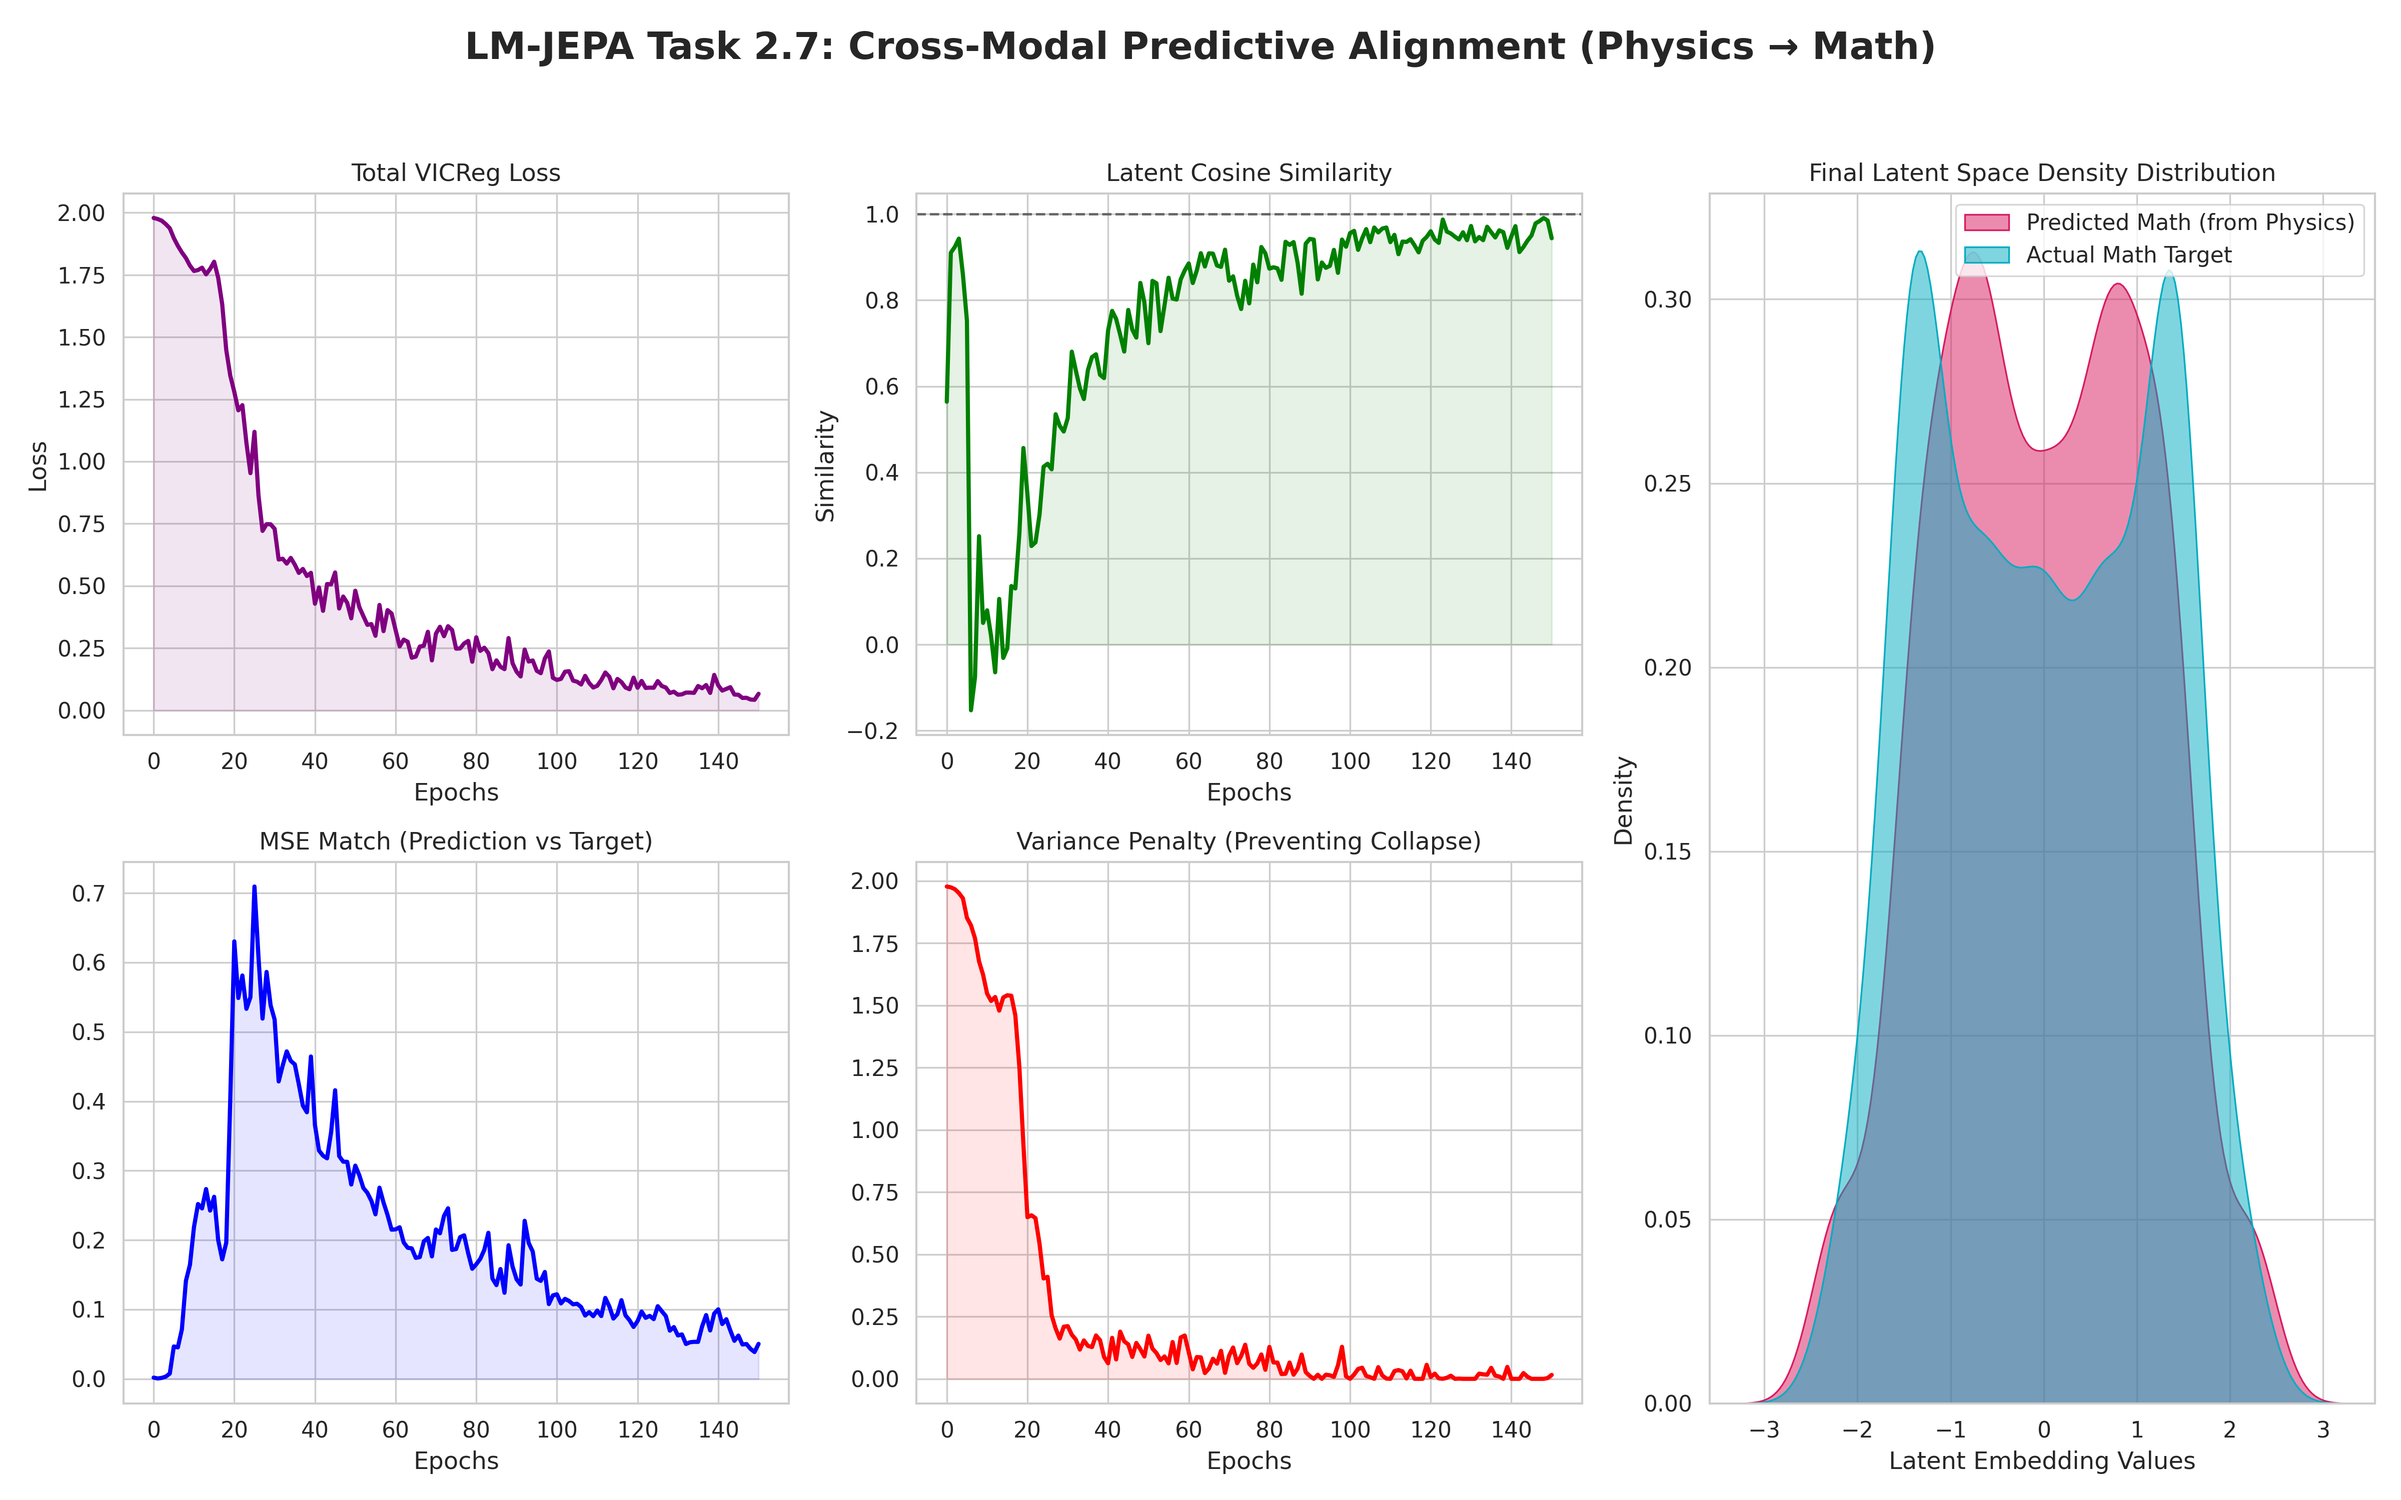
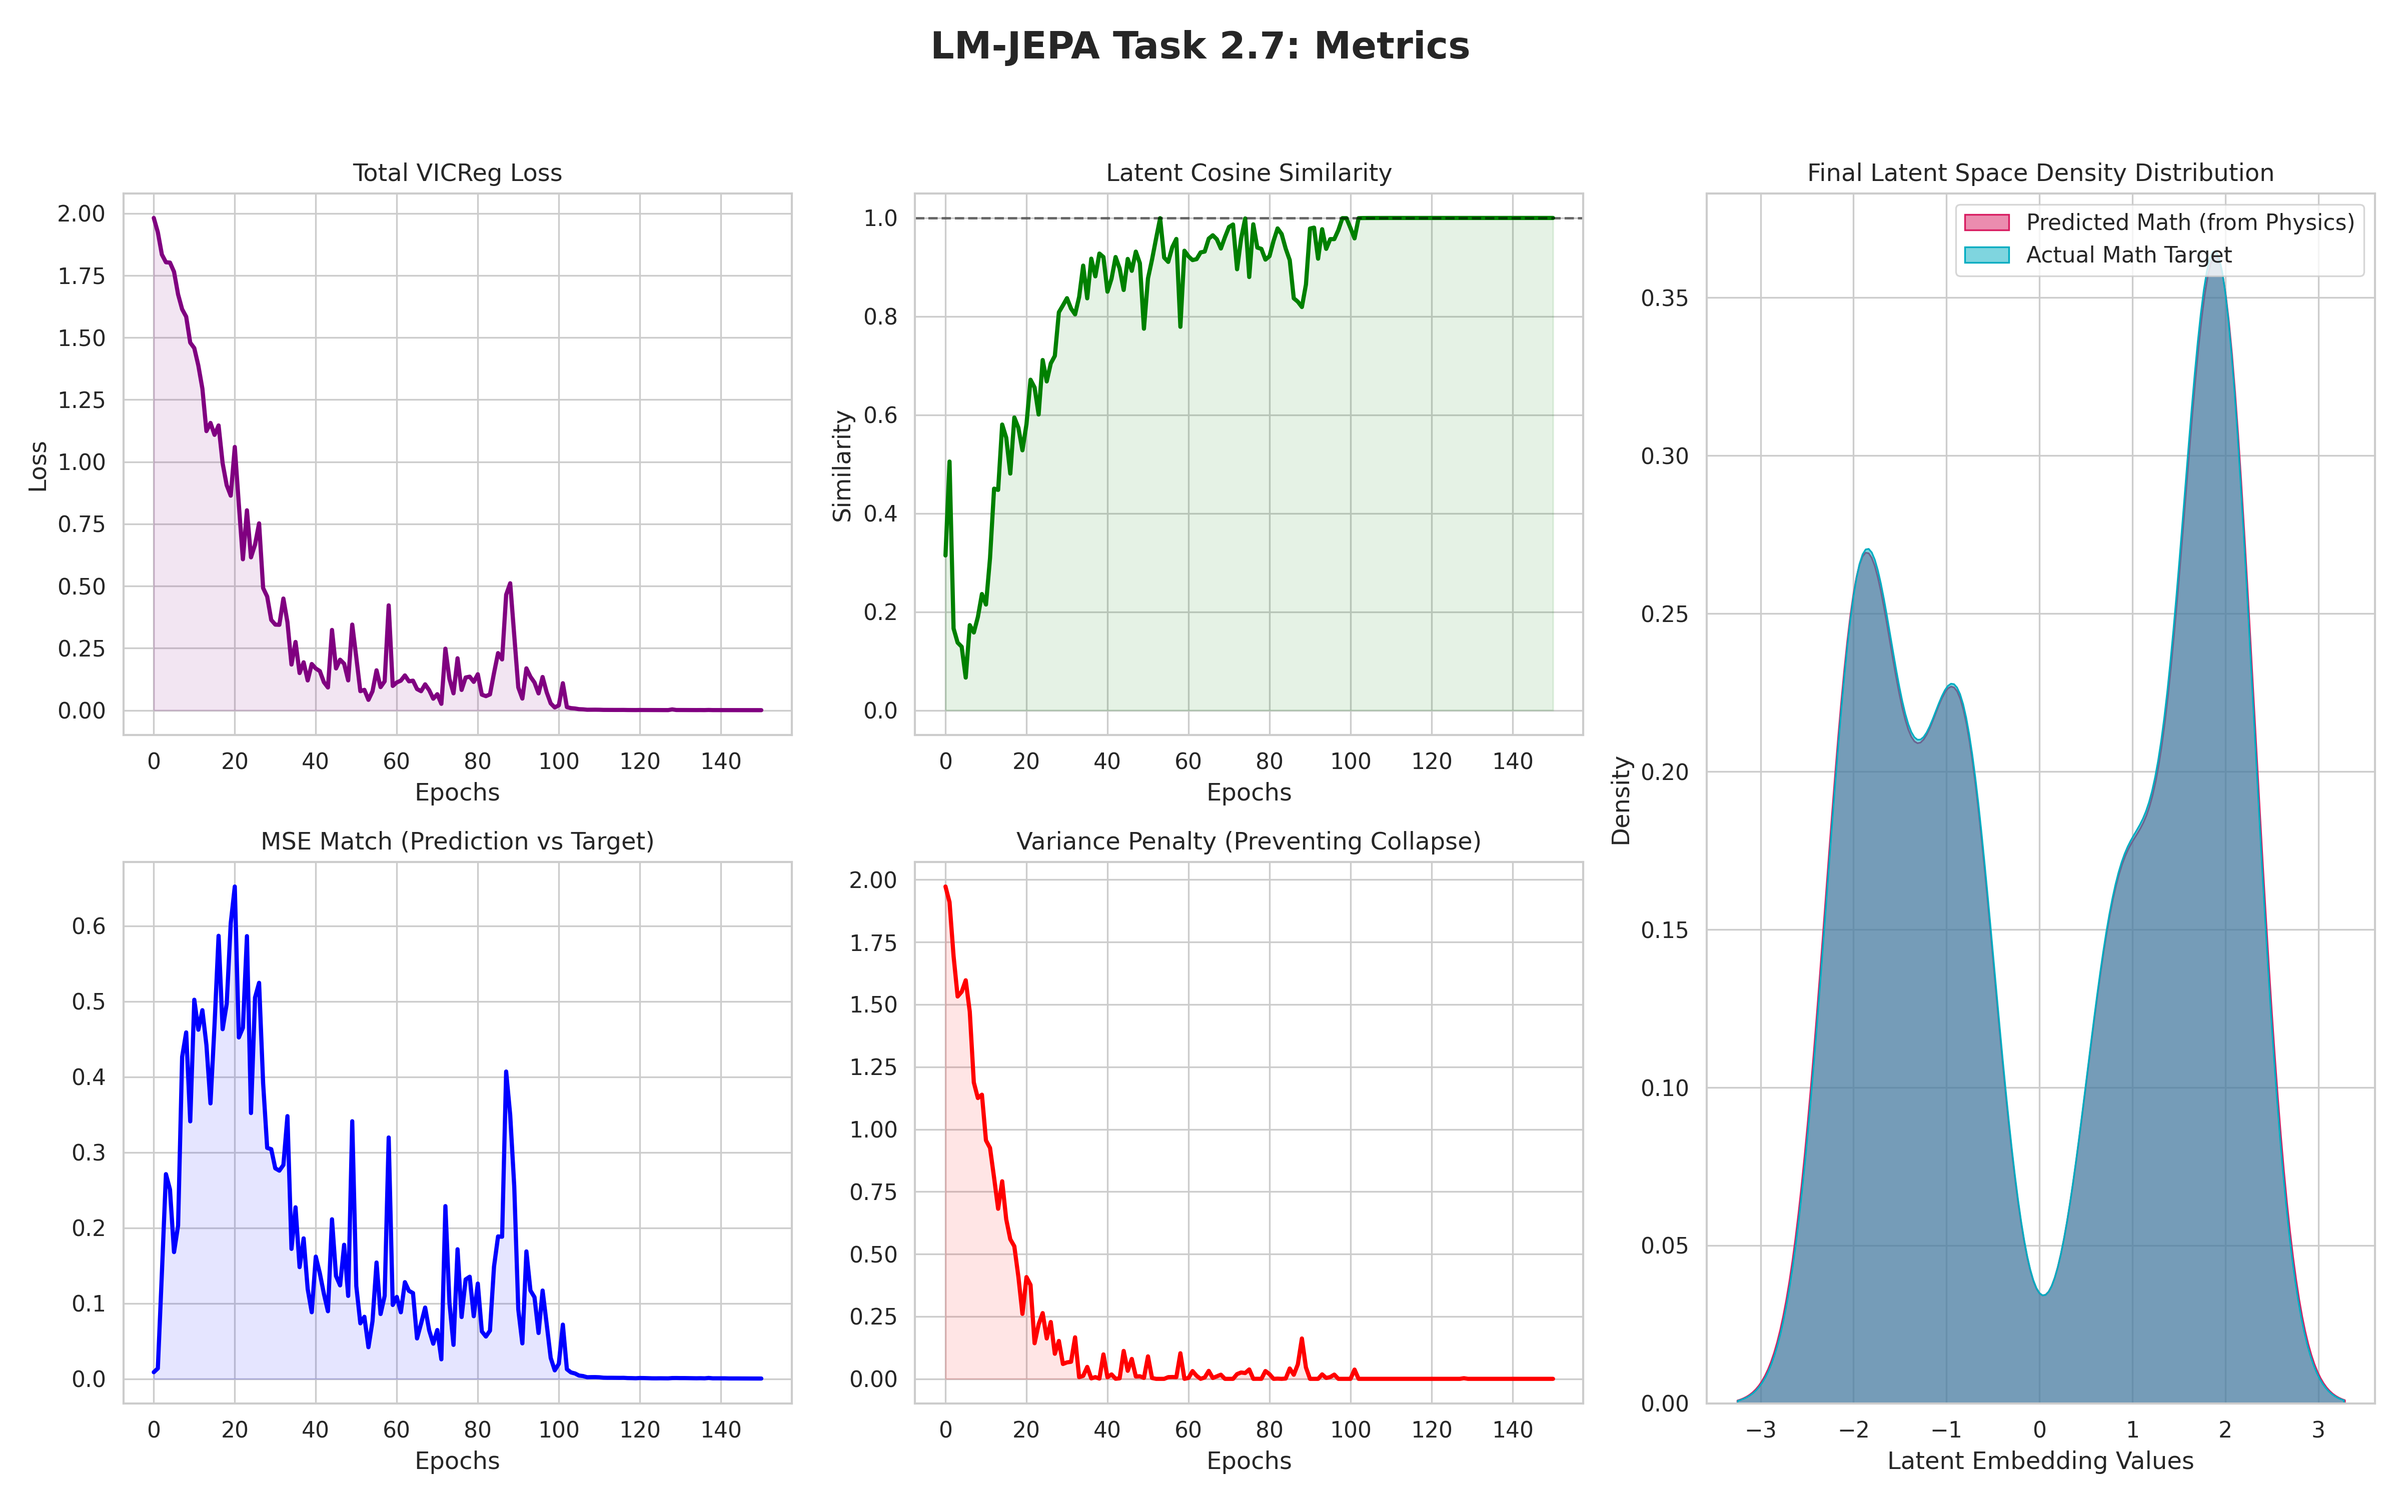
sparse attention transformer update

diff --git a/SYMBA_REG/LM-JEPA_Mannan/src/models/jepa_modules.py b/SYMBA_REG/LM-JEPA_Mannan/src/models/jepa_modules.py
@@ -19,18 +19,99 @@ class LatentPredictor(nn.Module):
     def forward(self, context_latent):
         return self.net(context_latent)
     
+# class JEPA_PhysicsEncoder(nn.Module):
+#     """
+#     Takes pre-computed T-Net embeddings (s_x) and maps them into 
+#     the final Joint Latent Space using KAN.
+#     """
+#     def __init__(self, tnet_dim=128, hidden_dim=64, latent_dim=64):
+#         super().__init__()
+#         self.projector = KAN([tnet_dim, hidden_dim, latent_dim])
+
+#     def forward(self, tnet_emb):
+#         return self.projector(tnet_emb)
+
+# ====================
+# Sparse Attention
+# ====================
+class SparseAttention(nn.Module):
+    def __init__(self, embed_dim, num_heads, window_size=8, num_random=4):
+        super().__init__()
+        self.attn = nn.MultiheadAttention(embed_dim, num_heads, batch_first=True)
+        self.window_size = window_size
+        self.num_random = num_random
+
+    def forward(self, x):
+        B, T, D = x.shape
+        mask = torch.full((T, T), float("-inf"), device=x.device)
+        for i in range(T):
+            start = max(0, i - self.window_size)
+            mask[i, start:i+1] = 0
+            if self.num_random > 0:
+                rand_idx = torch.randint(0, T, (self.num_random,), device=x.device)
+                mask[i, rand_idx] = 0
+        attn_out, _ = self.attn(x, x, x, attn_mask=mask)
+        return attn_out
+
+# =====================
+# Transformer Block
+# =====================
+class StandardTransformerBlock(nn.Module):
+    def __init__(self, dim=64, num_heads=4):
+        super().__init__()
+        self.sparse_attn = SparseAttention(dim, num_heads)
+        
+        # Standard MLP from your SymbolicDecoder
+        self.ff = nn.Sequential(
+            nn.Linear(dim, 4 * dim),
+            nn.ReLU(),
+            nn.Linear(4 * dim, dim)
+        )
+        self.norm1 = nn.LayerNorm(dim)
+        self.norm2 = nn.LayerNorm(dim)
+
+    def forward(self, x):
+        attn_out = self.sparse_attn(x)
+        x = self.norm1(x + attn_out)
+        ff_out = self.ff(x)
+        x = self.norm2(x + ff_out)
+        return x
+
+# ======================
+# The Context Encoder
+# ======================
 class JEPA_PhysicsEncoder(nn.Module):
     """
-    Takes pre-computed T-Net embeddings (s_x) and maps them into 
-    the final Joint Latent Space using KAN.
+    Takes pre-computed T-Net embeddings, projects them into a sequence,
+    and passes them through your standard Sparse Transformer.
     """
-    def __init__(self, tnet_dim=128, hidden_dim=64, latent_dim=64):
+    def __init__(self, tnet_dim=128, latent_dim=64, n_heads=4, n_layers=2):
         super().__init__()
-        self.projector = KAN([tnet_dim, hidden_dim, latent_dim])
+        self.latent_dim = latent_dim
+        self.num_latent_tokens = 4 # Split into a sequence of 4 for Attention
+        
+        self.latent_projector = nn.Linear(tnet_dim, latent_dim * self.num_latent_tokens)
+        
+        self.blocks = nn.ModuleList([
+            StandardTransformerBlock(dim=latent_dim, num_heads=n_heads) for _ in range(n_layers)
+        ])
+        
+        self.pool = nn.AdaptiveAvgPool1d(1)
 
     def forward(self, tnet_emb):
-        return self.projector(tnet_emb)
-
+        B = tnet_emb.shape[0]
+        # Project and reshape into sequence: [Batch, Tokens, Dim]
+        x = self.latent_projector(tnet_emb).view(B, self.num_latent_tokens, self.latent_dim)
+        
+        for block in self.blocks:
+            x = block(x)
+            
+        # Pool the sequence back into one 64D vector
+        x = x.transpose(1, 2) 
+        s_x = self.pool(x).squeeze(-1) 
+        
+        return s_x
+    
 class JEPA_MathEncoder(nn.Module):
     """
     Takes tokenized Postfix equations (y) and maps them into 
@@ -43,8 +124,12 @@ class JEPA_MathEncoder(nn.Module):
         # RNN to handle the sequence length of the Postfix tokens
         self.gru = nn.GRU(embed_dim, hidden_dim, batch_first=True)
         
-        # efficient_kan mapping from GRU hidden state (64) to latent space (64)
-        self.projector = KAN([hidden_dim, latent_dim])
+        # 3. Standard MLP Projector (Replaces the KAN for the PoC)
+        self.projector = nn.Sequential(
+            nn.Linear(hidden_dim, hidden_dim * 2),
+            nn.GELU(),
+            nn.Linear(hidden_dim * 2, latent_dim)
+        )
 
     def forward(self, postfix_tokens):
         # postfix_tokens shape: (batch_size, seq_len)
@@ -53,7 +138,5 @@ class JEPA_MathEncoder(nn.Module):
         # Get the final hidden state from the GRU
         _, hidden = self.gru(embedded) # hidden shape: (1, batch_size, hidden_dim)
         
-        # Squeeze the layer dimension and pass through KAN
-        latent_math = self.projector(hidden.squeeze(0)) 
-        return latent_math
-    
+        s_y = self.projector(hidden.squeeze(0)) 
+        return s_y

diff --git a/SYMBA_REG/LM-JEPA_Mannan/src/train_jepa_poc.py b/SYMBA_REG/LM-JEPA_Mannan/src/train_jepa_poc.py
@@ -131,7 +131,7 @@ def run_jepa_poc():
     # ===========================
     sns.set_theme(style="whitegrid", context="paper", font_scale=1.2)
     fig = plt.figure(figsize=(16, 10))
-    fig.suptitle("LM-JEPA Task 2.7: Cross-Modal Predictive Alignment (Physics → Math)", fontsize=18, fontweight='bold', y=0.98)
+    fig.suptitle("LM-JEPA Task 2.7: Metrics", fontsize=18, fontweight='bold', y=0.98)
 
     # Plot 1: Total VICReg Loss
     plt.subplot(2, 3, 1)
